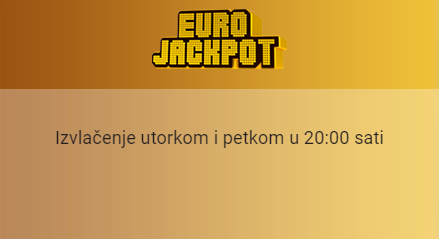
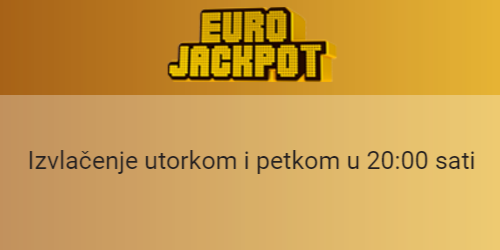
removed game and new design

Changed region(s): [[0.0, 0.0293, 1.0, 0.3808], [0.0592, 0.5272, 0.9476, 0.7029]]

diff --git a/Loto-randomizer/index.html b/Loto-randomizer/index.html
@@ -5,31 +5,20 @@
     <meta http-equiv="X-UA-Compatible" content="IE=edge">
     <meta name="viewport" content="width=device-width, initial-scale=1.0">
     <title>Loto Randomizer</title>
+    <link rel="stylesheet" href="index.css">
 </head>
-<body style="font-family: Arial, Helvetica, sans-serif;">
-    <center style="font-size: xx-large;">
+<body>
+    <h1>
         Hrvatski Loto Randomizer
-    </center>
-        <nav style="background-color: darkgray;">
-            <a href="../index.html">
-                <button>Početna</button>
-            </a>
-    <center style="font-size: xx-large;">
-            Pritisni na sliku za odabir
-        </nav>
-    </center>
-        <a href="HTML/eurojackpot.html">
-            <img src="./Pics/eurojackpot.png"></img>
-        </a>
-        <a href="HTML/loto7.html">
-            <img src="./Pics/loto7.png"></img>
-        </a>
-        <a href="HTML/loto6.html">
-            <img src="./Pics/loto6.png"></img>
-        </a>
-        <a href="HTML/sveilinista.html">
-            <img src="./Pics/sveilinista.png"></img>
-        </a>
+    </h1>
+        <ul class="ul_nav">
+            <li class="li_nav"><a href="../index.html">Početna</a></li>
+        </ul>
+        <ul class="ul_igra">
+            <li class="li_igra"><a href="HTML/eurojackpot.html"><img src="./Pics/eurojackpot.png"></img></a></li>
+            <li class="li_igra"><a href="HTML/loto7.html"><img src="./Pics/loto7.png"></img></a></li>
+            <li class="li_igra"><a href="HTML/loto6.html"><img src="./Pics/loto6.png"></img></a></li>
+        </ul> 
 </body>
 <footer style="font-family: Arial, Helvetica, sans-serif;">
     <p style="font-size: xx-large;">Informacije</p>

diff --git a/Loto-randomizer/index.css b/Loto-randomizer/index.css
@@ -1,0 +1,43 @@
+body {
+    font-family: Arial, Helvetica, sans-serif;
+}
+
+h1 {
+    text-align: center;
+}
+
+.ul_nav {
+    list-style-type: none;
+    margin: 0;
+    padding: 0;
+    overflow: hidden;
+    background-color: #616161;
+}
+
+.li_nav {
+    float: left;
+}
+
+.li_nav a {
+    display: block;
+    color: white;
+    text-align: center;
+    padding: 8px;
+    text-decoration: none;
+}
+
+
+.li_nav a:hover {
+    background-color: #3b3b3b;
+}
+
+.ul_igra {
+    list-style-type: none;
+    margin: 0;
+    padding: 0;
+    overflow: hidden; 
+}
+
+.li_igra {
+    float: left;
+}
